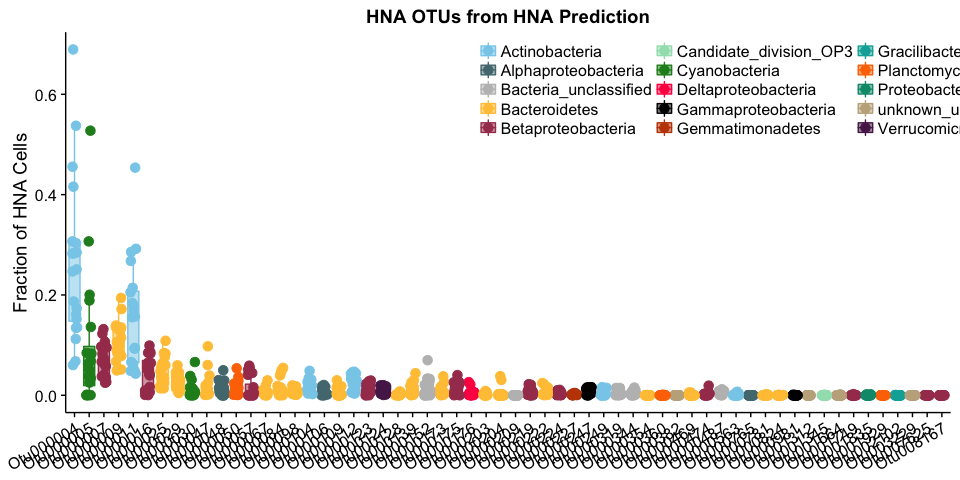
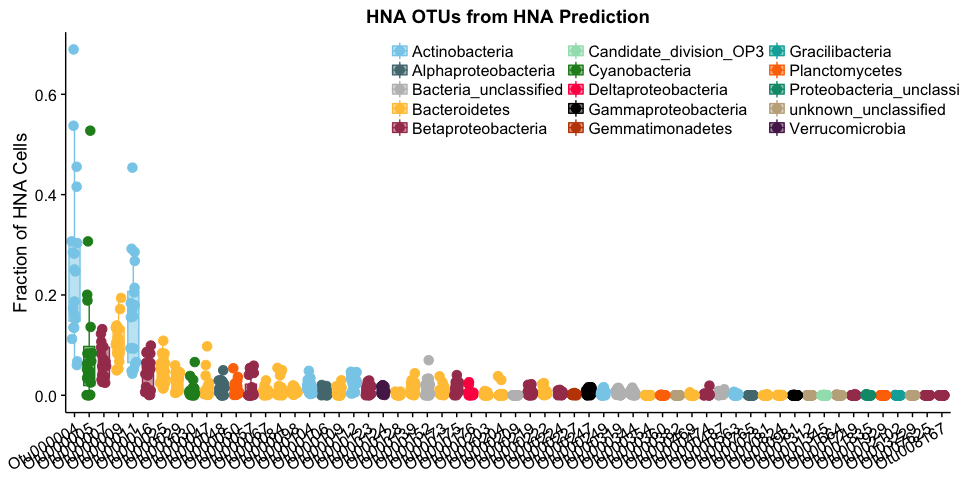
created correlations between the overlapping OTUs in the HNA and LNA

diff --git a/Final/HNA_OutliersRemoved/June16_Analysis.md b/Final/HNA_OutliersRemoved/June16_Analysis.md
@@ -8,6 +8,10 @@
 -   [LNA Pool: 0.1% Filtering](#lna-pool-0.1-filtering)
     -   [Proportion of LNA Pool?](#proportion-of-lna-pool)
     -   [Sum OTUs vs LNA](#sum-otus-vs-lna)
+-   [Overlap in OTUs](#overlap-in-otus)
+-   [Correlation of OTUs with Productivity](#correlation-of-otus-with-productivity)
+    -   [No transformation of the absolute abundances](#no-transformation-of-the-absolute-abundances)
+    -   [log10 transform the abundances](#log10-transform-the-abundances)
 
 ### Load the necessary libraries and set colors
 
@@ -196,7 +200,7 @@ ggplot(AbsAbund_hna_otus, aes(x = reorder(OTU, Phylum), y = OTU_fraction_HNA, fi
   ggtitle("HNA OTUs from HNA Prediction") + 
   guides(fill = guide_legend(ncol=3),
          color = guide_legend(ncol=3)) +
-  theme(legend.position = c(0.8, 0.85),
+  theme(legend.position = c(0.7, 0.85),
         legend.direction = "horizontal",
         legend.title = element_blank(),
         axis.title.x = element_blank(),
@@ -548,7 +552,7 @@ Proportion of LNA Pool?
 
 ``` r
 # Calculate the sum of the HNA pool, the max of the HNA pool, and the median/mean
-frac_HNA_stats_AbsAbund_lna_otus <- AbsAbund_lna_otus %>%                        # Take the dataframe from above
+frac_LNA_stats_AbsAbund_lna_otus <- AbsAbund_lna_otus %>%                        # Take the dataframe from above
   dplyr::select(Sample_16S, OTU, OTU_fraction_LNA, Abs_Abund, LNA.cells) %>%   # Select only relevant columns
   group_by(Sample_16S) %>%                                                     # Make a data frame for each of the individual samples
   summarise(sum_fracLNA = sum(OTU_fraction_LNA),                               # Calculate the sum of the fraction of each OTU from the HNA pool (total HNA pool represented by each OTU)
@@ -560,7 +564,7 @@ frac_HNA_stats_AbsAbund_lna_otus <- AbsAbund_lna_otus %>%                       
 
 
 # Plot the variation in the sum of the HNA fraction with points/boxplot
-ggplot(frac_HNA_stats_AbsAbund_lna_otus, 
+ggplot(frac_LNA_stats_AbsAbund_lna_otus, 
        aes(y = sum_fracLNA, x = All_Samples, color = "All_Samples", fill = "All_Samples")) +
   geom_boxplot(alpha = 0.5, outlier.shape = NA) + 
   geom_point(size = 3, position = position_jitterdodge()) +
@@ -569,8 +573,8 @@ ggplot(frac_HNA_stats_AbsAbund_lna_otus,
   scale_fill_manual(values = "black") +
   geom_abline(intercept = 1, slope = 0, color = "grey") +                                   # Draw a line at 1 
   scale_y_continuous(expand = c(0,0),
-                     limits = c(0, max(frac_HNA_stats_AbsAbund_lna_otus$sum_fracLNA) + 0.2), 
-                     breaks = seq(0,  max(frac_HNA_stats_AbsAbund_lna_otus$sum_fracLNA) + 0.2, by = 0.1)) +
+                     limits = c(0, 1.8), 
+                     breaks = seq(0,  1.8 + 0.2, by = 0.2)) +
   ylab("\n Sum(Abundance/LNA.cells)") + xlab("Sample") +
   theme(legend.position = "none", axis.text.x = element_blank())
 ```
@@ -584,7 +588,11 @@ Sum OTUs vs LNA
 all_lna_data <- inner_join(frac_HNA_stats_AbsAbund_lna_otus, productivity, by = "Sample_16S") %>%    # Combine calculated stats above with rest of metadata
   dplyr::select(-c(Platform, All_Samples, samples, Lake, Fraction, Depth)) %>%                  # Remove futile columns
   mutate(pred_totLNA_counts = sum_fracLNA*LNA.cells)                                            # Sanity Check:  Back calculate the number of HNA cells 
+```
 
+    ## Error in inner_join(frac_HNA_stats_AbsAbund_lna_otus, productivity, by = "Sample_16S"): object 'frac_HNA_stats_AbsAbund_lna_otus' not found
+
+``` r
 # Plot the correlation between the HNA counts from the flow cytometer and the sum of the counts from the LNA OTUs
 ggplot(all_lna_data, aes(x = sum_abs_abund, y= LNA.cells)) +
   geom_point(size = 3) + ylab("LNA Cell Count") + 
@@ -593,6 +601,156 @@ ggplot(all_lna_data, aes(x = sum_abs_abund, y= LNA.cells)) +
   theme(axis.text.x = element_text(angle = 30, hjust = 1, vjust = 1))
 ```
 
-<img src="June16_Analysis_files/figure-markdown_github/pred-LNA-1.png" style="display: block; margin: auto;" />
+    ## Error in ggplot(all_lna_data, aes(x = sum_abs_abund, y = LNA.cells)): object 'all_lna_data' not found
 
 Quite a nice correlation with the LNA OTUS!
+
+Overlap in OTUs
+===============
+
+The number of OTUs that are:
+
+-   Unique to the HNA pool: 60
+-   Unique to the LNA pool: 193
+-   Shared between both pools: 27
+
+``` r
+OTUs_in_both <- intersect(hna_otu_names, lna_otu_names); sort(OTUs_in_both)
+```
+
+    ##  [1] "Otu000004" "Otu000005" "Otu000007" "Otu000009" "Otu000011" "Otu000016" "Otu000025" "Otu000029" "Otu000030" "Otu000047" "Otu000048" "Otu000050" "Otu000057" "Otu000104" "Otu000106" "Otu000124" "Otu000139" "Otu000152" "Otu000209" "Otu000227"
+    ## [21] "Otu000319" "Otu000382" "Otu000487" "Otu000765" "Otu003229" "Otu007625" "Otu008167"
+
+Correlation of OTUs with Productivity
+=====================================
+
+### No transformation of the absolute abundances
+
+``` r
+summary(lm(tot_bacprod ~ Abs_Abund/OTU , data = dplyr::filter(AbsAbund_hna_otus, OTU %in% OTUs_in_both)))
+```
+
+    ## 
+    ## Call:
+    ## lm(formula = tot_bacprod ~ Abs_Abund/OTU, data = dplyr::filter(AbsAbund_hna_otus, 
+    ##     OTU %in% OTUs_in_both))
+    ## 
+    ## Residuals:
+    ##     Min      1Q  Median      3Q     Max 
+    ## -26.652 -11.904  -1.034  12.179  32.458 
+    ## 
+    ## Coefficients: (6 not defined because of singularities)
+    ##                          Estimate Std. Error t value Pr(>|t|)    
+    ## (Intercept)             3.038e+01  8.649e-01  35.129   <2e-16 ***
+    ## Abs_Abund               5.167e-06  6.120e-06   0.844   0.3989    
+    ## Abs_Abund:OTUOtu000005  6.953e-06  9.947e-06   0.699   0.4848    
+    ## Abs_Abund:OTUOtu000007  2.958e-05  1.947e-05   1.519   0.1294    
+    ## Abs_Abund:OTUOtu000009  1.364e-05  1.480e-05   0.922   0.3570    
+    ## Abs_Abund:OTUOtu000011 -6.420e-07  1.139e-05  -0.056   0.9551    
+    ## Abs_Abund:OTUOtu000016  4.041e-05  2.466e-05   1.639   0.1019    
+    ## Abs_Abund:OTUOtu000025  3.866e-05  2.811e-05   1.375   0.1697    
+    ## Abs_Abund:OTUOtu000029  2.095e-05  5.386e-05   0.389   0.6975    
+    ## Abs_Abund:OTUOtu000030  1.127e-04  6.343e-05   1.777   0.0762 .  
+    ## Abs_Abund:OTUOtu000047 -2.151e-05  5.730e-05  -0.375   0.7075    
+    ## Abs_Abund:OTUOtu000048  1.236e-04  7.453e-05   1.659   0.0977 .  
+    ## Abs_Abund:OTUOtu000050  1.375e-04  6.672e-05   2.061   0.0398 *  
+    ## Abs_Abund:OTUOtu000057  6.346e-05  5.912e-05   1.073   0.2836    
+    ## Abs_Abund:OTUOtu000104  4.570e-05  8.180e-05   0.559   0.5766    
+    ## Abs_Abund:OTUOtu000106  2.685e-04  1.755e-04   1.530   0.1266    
+    ## Abs_Abund:OTUOtu000124  3.056e-04  1.336e-04   2.288   0.0225 *  
+    ## Abs_Abund:OTUOtu000139  7.422e-05  8.794e-05   0.844   0.3991    
+    ## Abs_Abund:OTUOtu000152  1.059e-04  5.665e-05   1.869   0.0622 .  
+    ## Abs_Abund:OTUOtu000209         NA         NA      NA       NA    
+    ## Abs_Abund:OTUOtu000227  8.164e-04  7.741e-04   1.055   0.2921    
+    ## Abs_Abund:OTUOtu000319  9.700e-05  2.926e-04   0.332   0.7404    
+    ## Abs_Abund:OTUOtu000382         NA         NA      NA       NA    
+    ## Abs_Abund:OTUOtu000487  1.910e-04  3.578e-04   0.534   0.5936    
+    ## Abs_Abund:OTUOtu000765         NA         NA      NA       NA    
+    ## Abs_Abund:OTUOtu003229         NA         NA      NA       NA    
+    ## Abs_Abund:OTUOtu007625         NA         NA      NA       NA    
+    ## Abs_Abund:OTUOtu008167         NA         NA      NA       NA    
+    ## ---
+    ## Signif. codes:  0 '***' 0.001 '**' 0.01 '*' 0.05 '.' 0.1 ' ' 1
+    ## 
+    ## Residual standard error: 15.23 on 518 degrees of freedom
+    ## Multiple R-squared:  0.05537,    Adjusted R-squared:  0.01707 
+    ## F-statistic: 1.446 on 21 and 518 DF,  p-value: 0.09116
+
+``` r
+ggplot(dplyr::filter(AbsAbund_hna_otus, OTU %in% OTUs_in_both), 
+       aes(y = tot_bacprod,x = Abs_Abund, fill = Phylum, color = Phylum)) +
+  geom_point(size = 3) + 
+  scale_color_manual(values = phylum_colors) +
+  scale_fill_manual(values = phylum_colors) +
+  xlab("Absolute Abundance (cells/mL)") +
+  facet_wrap(~OTU, scale = "free_x") + 
+  geom_smooth(method = "lm") +
+  ylab("Total Production (ug C/L/hr)") + 
+  theme(legend.position = "bottom",
+        legend.title = element_blank())  
+```
+
+<img src="June16_Analysis_files/figure-markdown_github/otu-prod-1.png" style="display: block; margin: auto;" />
+
+### log10 transform the abundances
+
+``` r
+# Remove OTUs samples that have an abundance of 0
+summary(lm(tot_bacprod ~ log10(Abs_Abund)/OTU , data = dplyr::filter(AbsAbund_hna_otus, OTU %in% OTUs_in_both & Abs_Abund > 0)))
+```
+
+    ## 
+    ## Call:
+    ## lm(formula = tot_bacprod ~ log10(Abs_Abund)/OTU, data = dplyr::filter(AbsAbund_hna_otus, 
+    ##     OTU %in% OTUs_in_both & Abs_Abund > 0))
+    ## 
+    ## Residuals:
+    ##     Min      1Q  Median      3Q     Max 
+    ## -25.947 -12.178  -0.993  12.079  31.738 
+    ## 
+    ## Coefficients:
+    ##                               Estimate Std. Error t value Pr(>|t|)   
+    ## (Intercept)                     5.2501     7.5847   0.692  0.48925   
+    ## log10(Abs_Abund)                4.8604     1.4742   3.297  0.00107 **
+    ## log10(Abs_Abund):OTUOtu000005   0.5902     0.9808   0.602  0.54772   
+    ## log10(Abs_Abund):OTUOtu000007   0.6134     0.9336   0.657  0.51161   
+    ## log10(Abs_Abund):OTUOtu000009   0.3410     0.9058   0.376  0.70680   
+    ## log10(Abs_Abund):OTUOtu000011   0.1877     0.8947   0.210  0.83399   
+    ## log10(Abs_Abund):OTUOtu000016   0.8717     0.9846   0.885  0.37654   
+    ## log10(Abs_Abund):OTUOtu000025   0.7952     0.9597   0.829  0.40790   
+    ## log10(Abs_Abund):OTUOtu000029   1.0279     1.0167   1.011  0.31269   
+    ## log10(Abs_Abund):OTUOtu000030   1.6581     1.2232   1.356  0.17610   
+    ## log10(Abs_Abund):OTUOtu000047   1.5444     1.1275   1.370  0.17161   
+    ## log10(Abs_Abund):OTUOtu000048   1.2148     1.1545   1.052  0.29340   
+    ## log10(Abs_Abund):OTUOtu000050   1.8085     1.1542   1.567  0.11804   
+    ## log10(Abs_Abund):OTUOtu000057   2.3703     1.2711   1.865  0.06302 . 
+    ## log10(Abs_Abund):OTUOtu000104   1.2219     1.0508   1.163  0.24566   
+    ## log10(Abs_Abund):OTUOtu000106   2.7704     1.2498   2.217  0.02727 * 
+    ## log10(Abs_Abund):OTUOtu000124   2.0012     1.1649   1.718  0.08666 . 
+    ## log10(Abs_Abund):OTUOtu000139   1.7390     1.1271   1.543  0.12372   
+    ## log10(Abs_Abund):OTUOtu000152   1.0438     1.1982   0.871  0.38429   
+    ## log10(Abs_Abund):OTUOtu000227   3.0308     1.4633   2.071  0.03905 * 
+    ## log10(Abs_Abund):OTUOtu000319   2.0351     1.2741   1.597  0.11107   
+    ## log10(Abs_Abund):OTUOtu000487   2.2724     1.2875   1.765  0.07841 . 
+    ## ---
+    ## Signif. codes:  0 '***' 0.001 '**' 0.01 '*' 0.05 '.' 0.1 ' ' 1
+    ## 
+    ## Residual standard error: 15.64 on 362 degrees of freedom
+    ## Multiple R-squared:  0.0401, Adjusted R-squared:  -0.01559 
+    ## F-statistic: 0.7201 on 21 and 362 DF,  p-value: 0.8128
+
+``` r
+ggplot(dplyr::filter(AbsAbund_hna_otus, OTU %in% OTUs_in_both & Abs_Abund > 0), 
+       aes(y = tot_bacprod,x = log10(Abs_Abund), fill = Phylum, color = Phylum)) +
+  geom_point(size = 3) + 
+  scale_color_manual(values = phylum_colors) +
+  scale_fill_manual(values = phylum_colors) +
+  xlab("log10(Abundance)") +
+  facet_wrap(~OTU, scale = "free_x") + 
+  geom_smooth(method = "lm") +
+  ylab("Total Production (ug C/L/hr)") + 
+  theme(legend.position = "bottom",
+        legend.title = element_blank())  
+```
+
+<img src="June16_Analysis_files/figure-markdown_github/log10-otu-prod-1.png" style="display: block; margin: auto;" />
